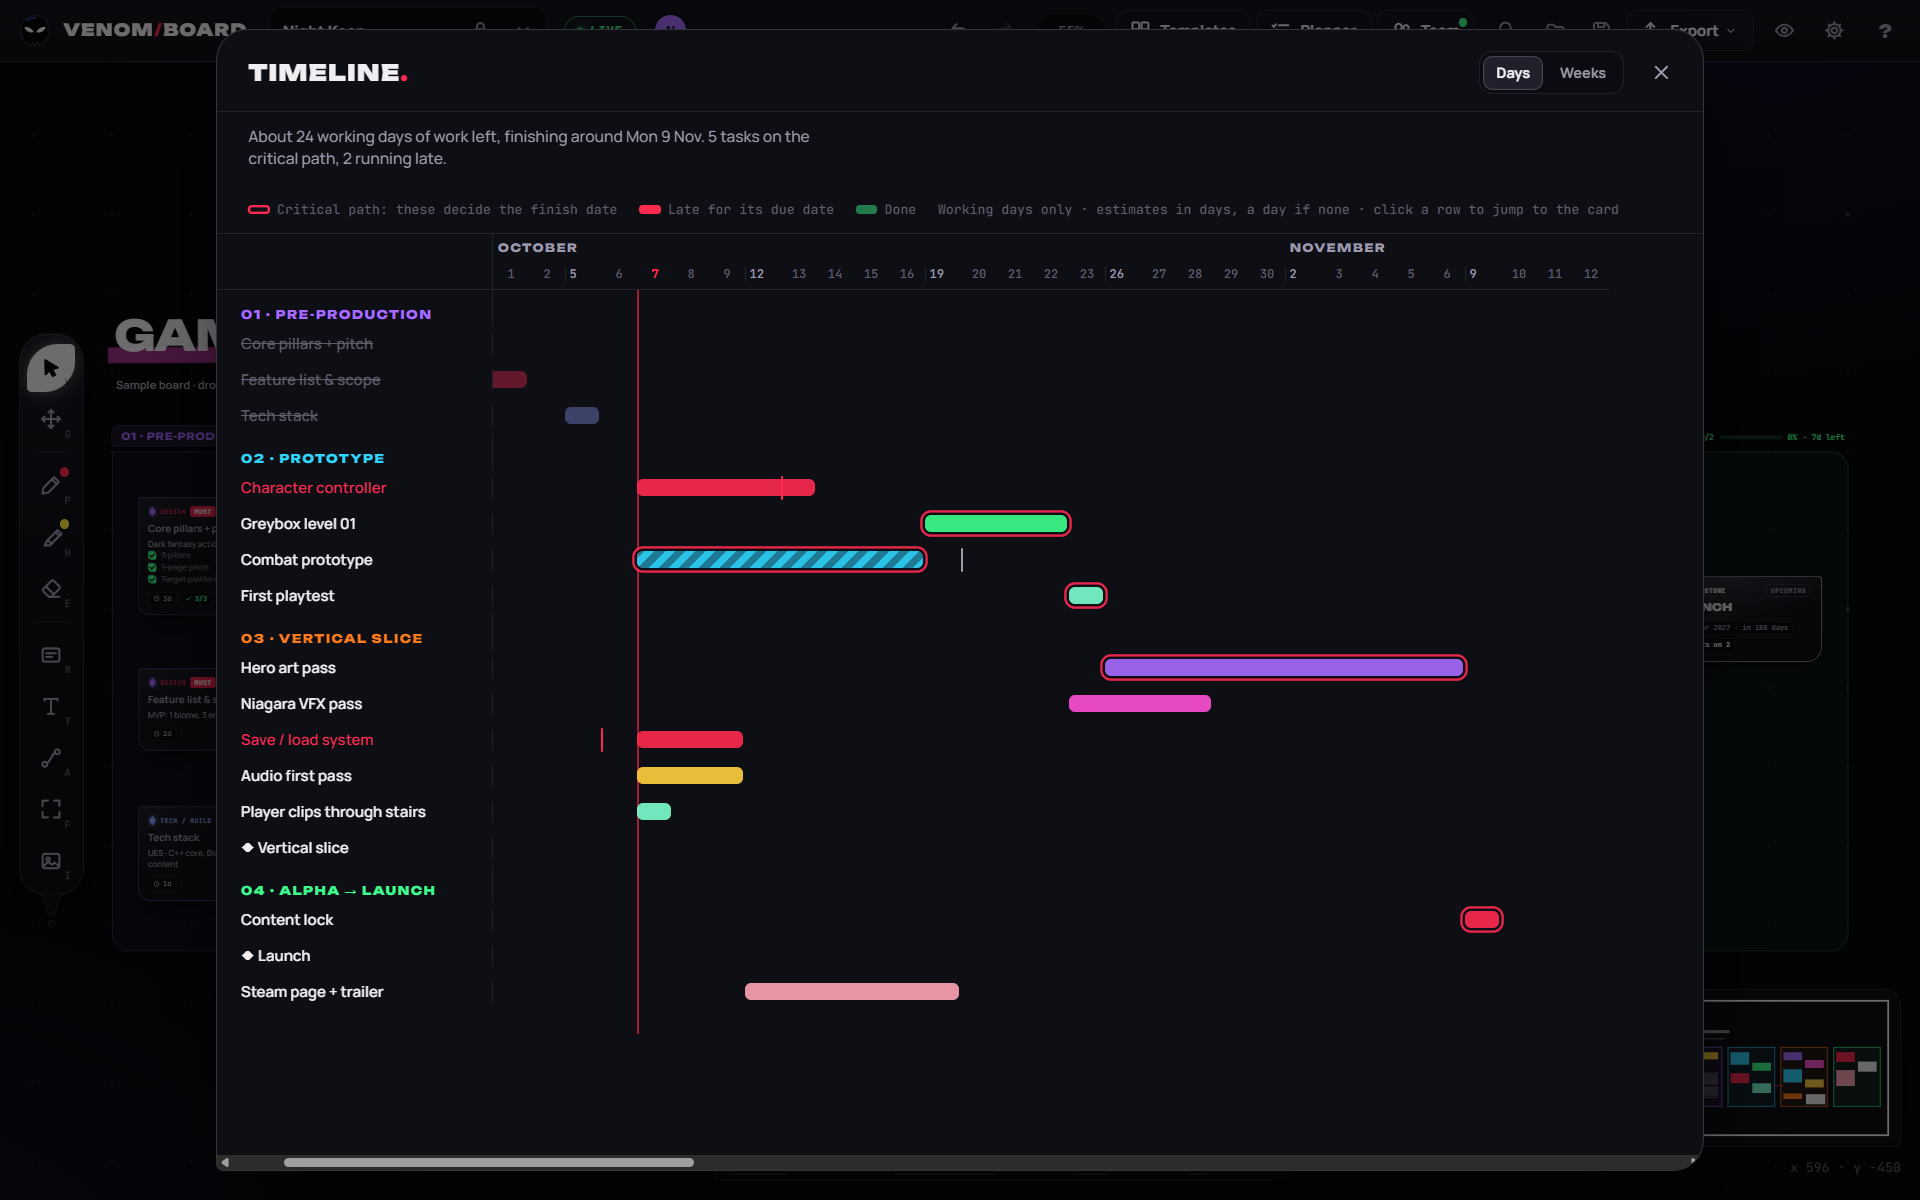
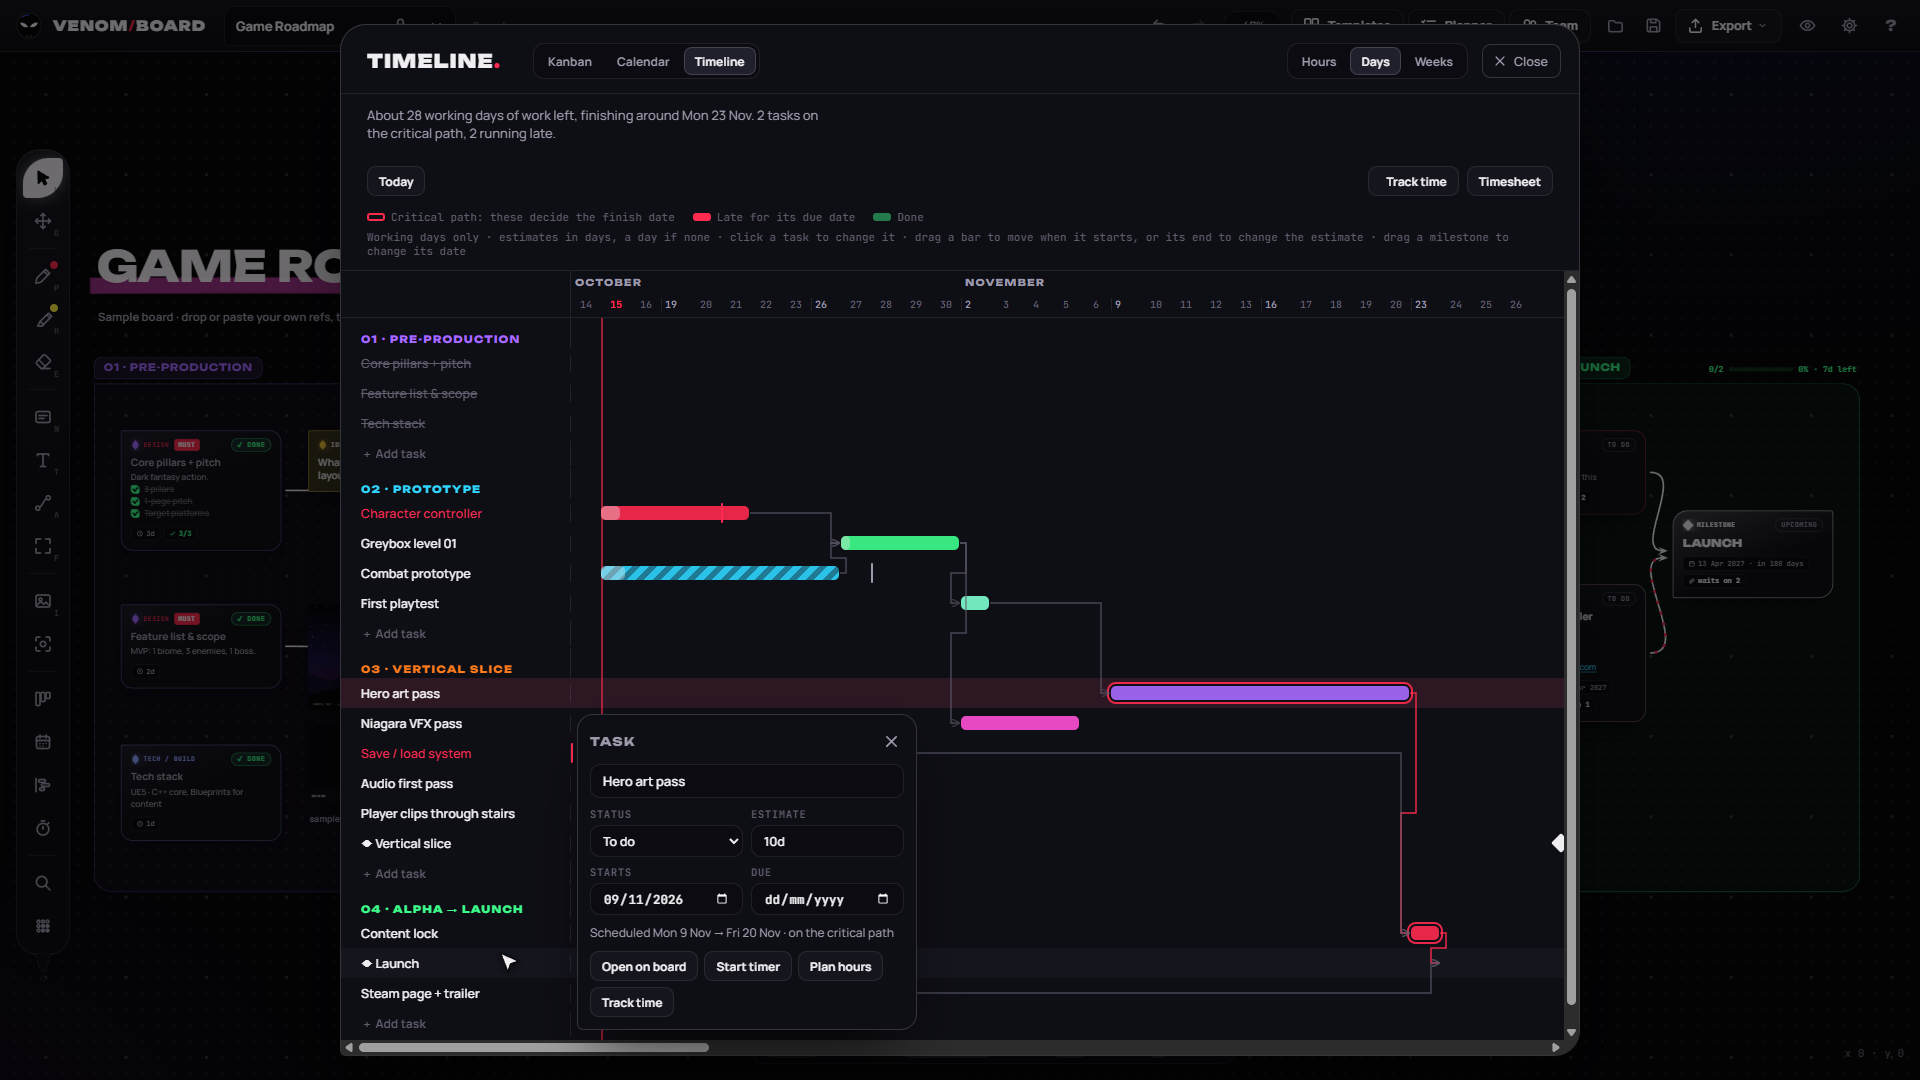
Keep the Hours popup on screen, and new Timeline and Hours screenshots

diff --git a/index.html b/index.html
@@ -10321,6 +10321,7 @@ function syncPop() {
   const name = (($('#thTask') || {}).value || '').trim(), msg = $('#thMsg');
   if (msg) msg.textContent = name && !th.labels.has(name) && p.kind === 'new' ? `“${shortTitle(name)}” isn't on the board yet: saving adds it as a new task.` : '';
   if (msg && msg.textContent === '' && $('#thTask') && document.activeElement !== $('#thTask')) msg.textContent = popProblem();
+  placeHoursPop();  // a message makes it taller: keep it all on screen
 }
 function popKeys(e) {
   e.stopPropagation();
@@ -10329,7 +10330,7 @@ function popKeys(e) {
 }
 function savePop() {
   const p = th.pop; if (!p) return;
-  const problem = popProblem(); if (problem) { $('#thMsg').textContent = problem; return; }
+  const problem = popProblem(); if (problem) { $('#thMsg').textContent = problem; placeHoursPop(); return; }
   const name = $('#thTask').value.trim(), t = popTimes(), mins = (t.b - t.a) / 60000, note = $('#thNote').value;
   let card = th.labels.has(name) ? idx.get(th.labels.get(name)) : null, added = false;
   if (!card) { card = newTaskCard(name); added = !!card; }

diff --git a/README.md b/README.md
@@ -143,16 +143,16 @@ Solo boards need no account, no subscription and no telemetry. They work offline
 | **Feedback pins** · comments pinned to a spot on a picture, with replies and resolving | **Sprint planning** · work left, capacity per person, velocity and tag filters |
 | ![Comments and mentions on a card](docs/screenshots/comments.png) | ![Planner panel with a burndown](docs/screenshots/planner.png) |
 | **Comments and @mentions** · talk right on the card; teammates' cursors and selections show live | **Planner** · progress, a burndown to the next milestone, and filters that dim the rest of the board |
-| ![Timeline with the critical path](docs/screenshots/timeline.png) | ![A public roadmap page](docs/screenshots/roadmap.png) |
-| **Timeline** · every task scheduled from its estimate and what it waits on, with the critical path | **Public roadmap** · a page players follow and vote on, made from your board |
+| ![The Timeline with arrows between tasks, tracked time in the bars and a task's editor open](docs/screenshots/timeline.png) | ![The Hours view: a week of tracked and planned time, with a new block being planned](docs/screenshots/hours.png) |
+| **Timeline** · every task scheduled from its estimate and what it waits on, with the critical path. Click a task to change it, drag a bar to give it a start date | **Hours** · the week hour by hour: drag across it to plan time or log what you worked. Striped is planned, solid is tracked |
 | ![Game jam clock](docs/screenshots/jam.png) | ![Template gallery](docs/screenshots/templates.png) |
 | **Game jam clock** · the countdown, the theme, a scope check and Cut scope | **Templates** · twelve ready-made game production structures |
 | ![Close-up of task cards](docs/screenshots/cards.png) | ![Place next picker](docs/screenshots/place-next.png) |
 | **Cards** · discipline, priority, estimates, due dates, checklists and dependencies | **Place next** · drag a tendril into empty space to choose the next card |
 | ![The sample game roadmap](docs/screenshots/board.png) | ![Window menu](docs/screenshots/window-menu.png) |
 | **Boards on your computer** · the sample roadmap, no account needed | **Overlay controls** · pin, lock, click-through, opacity, board lock |
-| ![Anti-Venom light skin](docs/screenshots/anti-venom.png) | |
-| **Anti-Venom** · the light skin | |
+| ![Anti-Venom light skin](docs/screenshots/anti-venom.png) | ![A public roadmap page](docs/screenshots/roadmap.png) |
+| **Anti-Venom** · the light skin | **Public roadmap** · a page players follow and vote on, made from your board |
 
 ## Keyboard shortcuts
 

diff --git a/CHANGELOG.md b/CHANGELOG.md
@@ -2,6 +2,11 @@
 
 All notable changes to Venom Board are listed here. The project follows [Semantic Versioning](https://semver.org).
 
+## [Unreleased]
+
+### Fixed
+- **The Hours popup stays on screen**: near the bottom of the window, the note that a new name will become a task no longer pushes its Save button out of sight
+
 ## [1.9.0] - 2026-10-15
 
 ### Added
